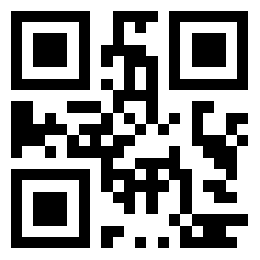
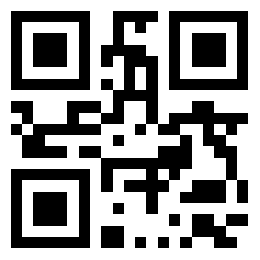
1.删除错误的打卡二维码2.添加了wifi打卡接口

diff --git a/PartyScoreAPI/Controllers/CheckController.cs b/PartyScoreAPI/Controllers/CheckController.cs
@@ -113,5 +113,103 @@ namespace PartyScoreAPI.Controllers
 
         }
 
+        [HttpPost]
+        public BaseGetResponse<CheckResult> CheckByWifi([FromUri] string wifiMac, [FromUri] string sessionkey)
+        {
+            var res = new BaseGetResponse<CheckResult>() { Code = -1, Msg = "没有这个打卡点", Data = null };
+
+            //TODO:
+            //1.检查是否有这个用户
+            var user = UserRepository.FindUser(sessionkey);
+            if (user == null)
+            {
+                res.Msg = "会话已过期，需要重新登录";
+                res.Code = 1;
+                return res;
+            }
+            //2.检查是否有这个二维码对应的打卡点
+            DBCommon.Model.DBPoint point = null;
+            point = PointRepository.FindPointByWifi(wifiMac);
+            if (point == null)
+            {
+                return res;
+            }
+
+            //找出该打卡点当前时间正在进行的支部活动
+            var BA_list = PointRepository.FindBranchActionByPointID(point.ID);
+            BA_list = BA_list.Where(a => a.BranchID.Equals(user.BranchID)).ToList();
+            bool isBranchAction = false;
+
+            if (BA_list.Count > 0)
+            {
+                isBranchAction = true;
+            }
+
+
+            //3.打卡是否重复,不重复则写入数据库，重复则返回打卡失败
+#warning 需要完善步骤
+            if (isBranchAction)
+            {
+                string title = "";
+                int num = 0;
+                foreach (var action in BA_list)
+                {
+                    var dataresult = ScoreRepository.BA_Signin(action.ID, user.OpenID);
+                    if (dataresult != null)
+                    {
+                        num++;
+                        title += string.Format("[{0}.{1}]", num, dataresult.CheckPoint);
+                    }
+                    else
+                    {
+                        res.Msg = "打卡失败,没有找到未打卡的支部活动";
+                        res.Code = 4;
+                    }
+                }
+                if (num > 0)
+                {
+                    res.Msg = "打卡成功";
+                    res.Code = 0;
+                    res.Data = new CheckResult()
+                    {
+                        CheckPoint = string.Format("{0}共{1}个活动打卡", title, num),
+                        CheckTime = DateTime.Now
+                    };
+                }
+                else
+                {
+                    return res;
+                }
+            }
+            else
+            {
+                string dataid = ScoreRepository.IsSignined(point.ID, user.OpenID);
+                if (dataid != null)
+                {
+                    res.Msg = "今天已打卡，请勿重复打卡";
+                    res.Code = 2;
+                    return res;
+                }
+                var dataresult = ScoreRepository.Signin(point.ID, user.OpenID);
+                if (dataresult != null)
+                {
+                    res.Msg = "打卡成功";
+                    res.Code = 0;
+                    res.Data = dataresult;
+                }
+                else
+                {
+                    res.Msg = "打卡失败,未知错误";
+                    res.Code = 4;
+                }
+
+            }
+            //var resultModel = PointRepository.CheckByScanQrcode(code, sessionkey);
+
+            return res;
+
+        }
+
+
     }
 }

diff --git a/PartyScoreAPI/Repository/PointRepository.cs b/PartyScoreAPI/Repository/PointRepository.cs
@@ -54,6 +54,17 @@ namespace PartyScoreAPI.Repository
             else
                 return null;
         }
+        public static DBPoint FindPointByWifi(string wifiMac)
+        {
+            var list = DbHelper.PointBLL.GetModelList("WifiMac='" + wifiMac + "'");
+            if (list != null && list.Count > 0)
+            {
+                return list.FirstOrDefault();
+            }
+            else
+                return null;
+
+        }
 
         /// <summary>
         /// 查找是否有对应二维码的支部活动
